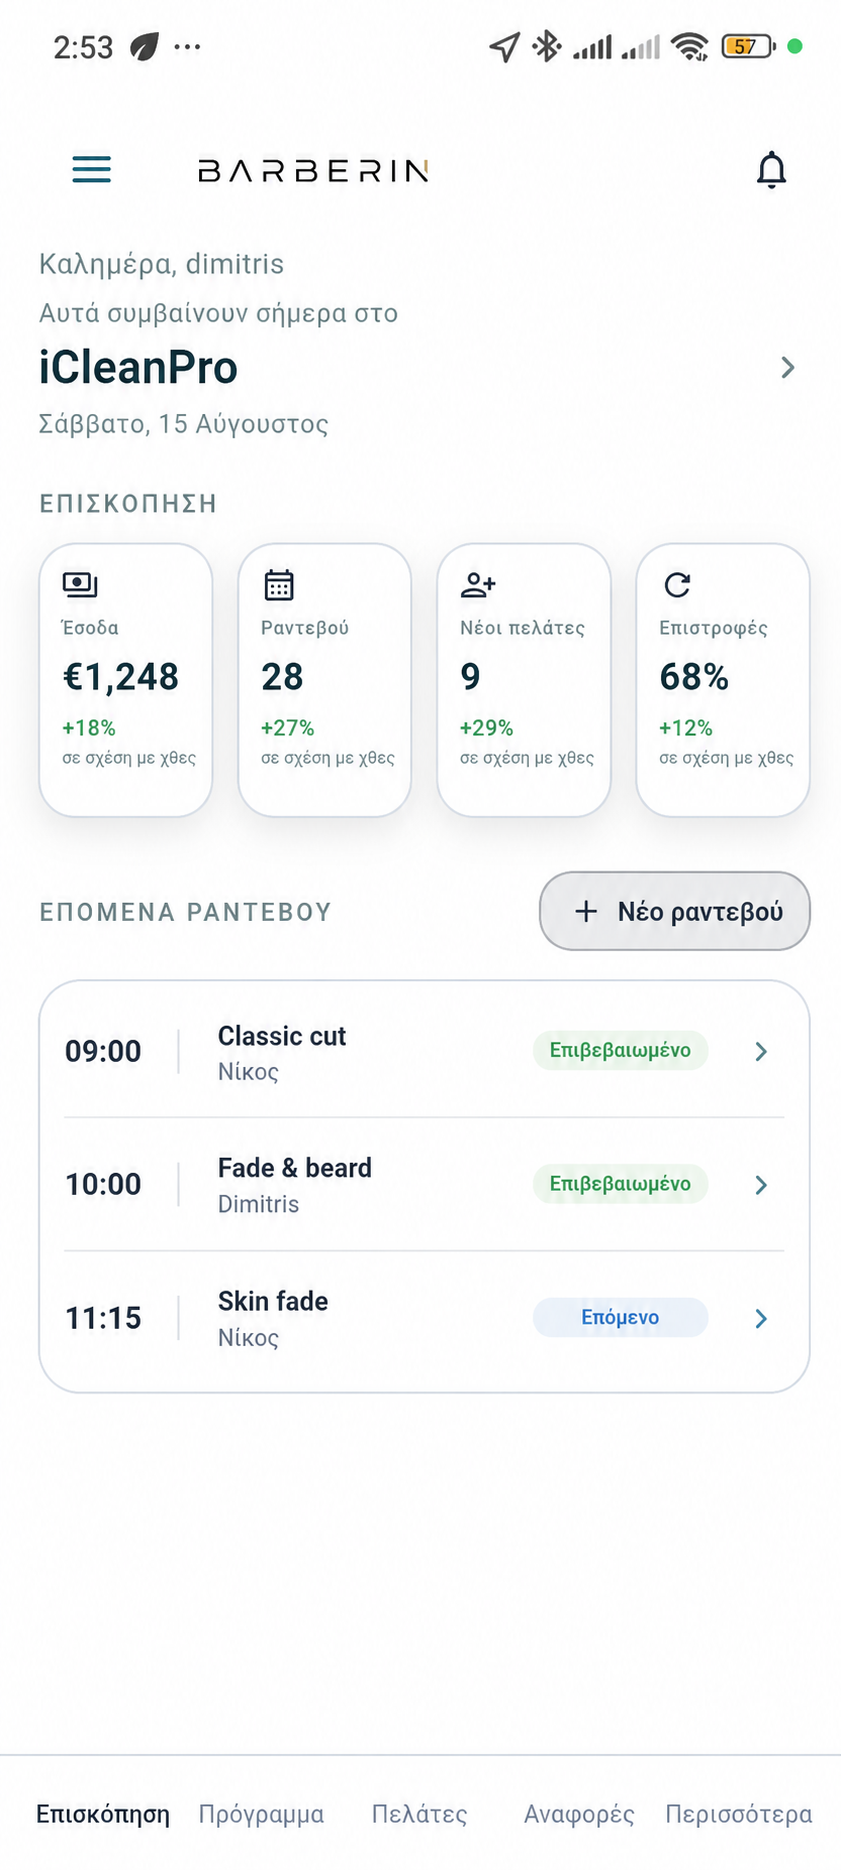
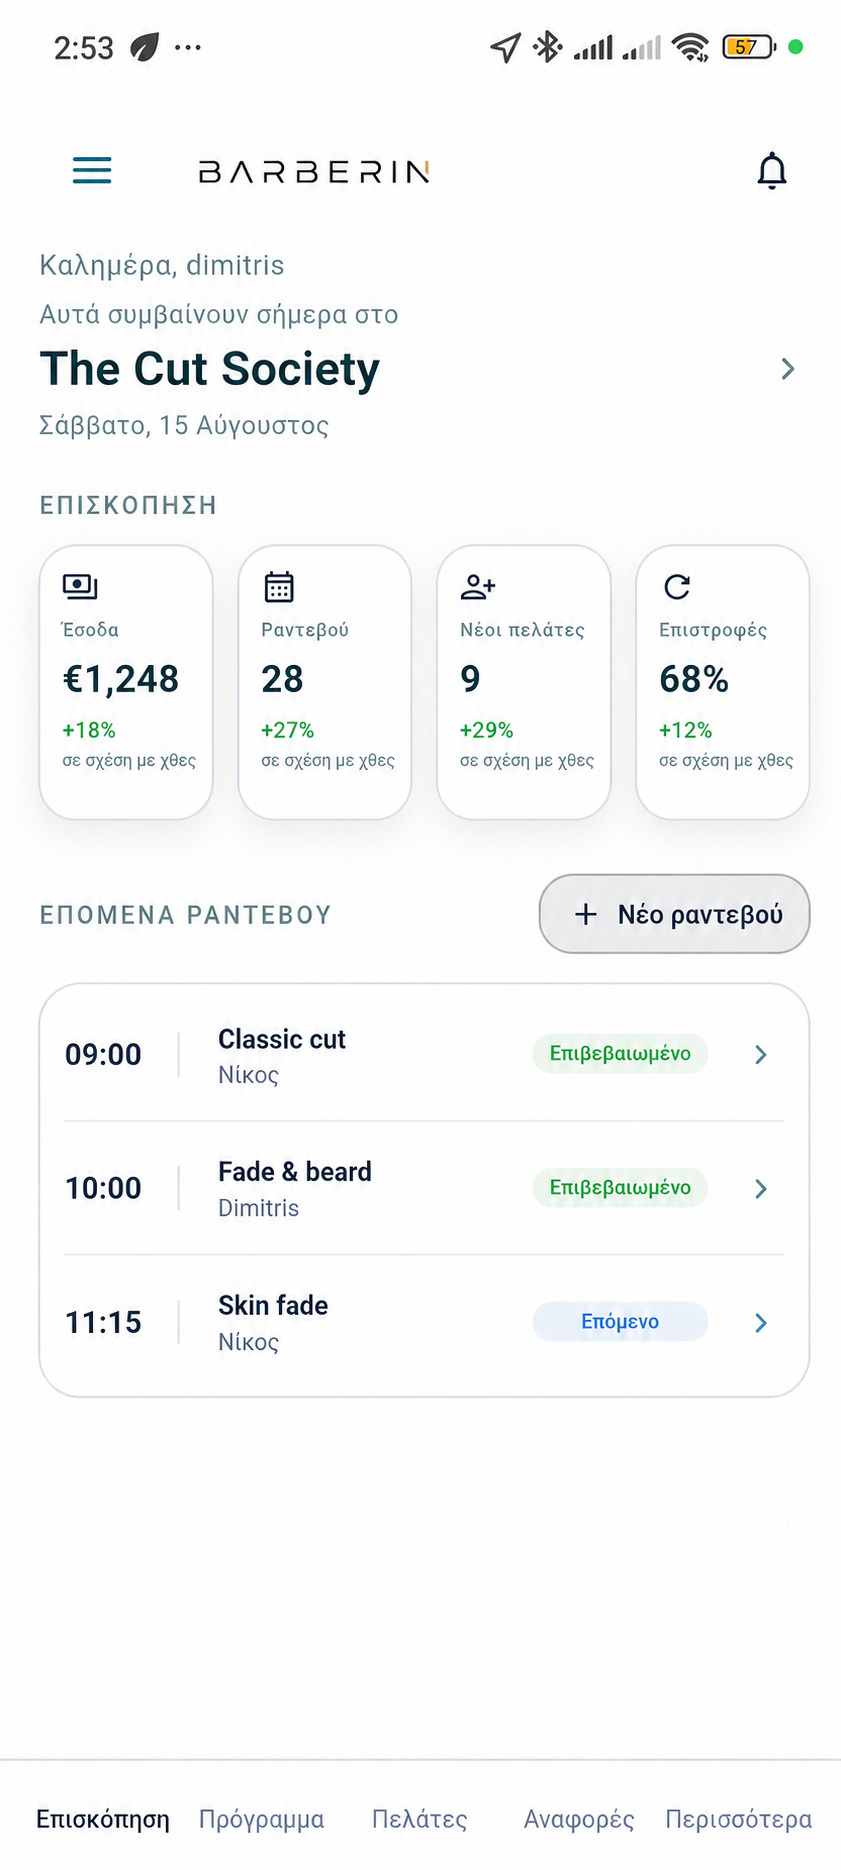
Complete Barberin website app demos

diff --git a/styles.css b/styles.css
@@ -143,7 +143,7 @@ h1 { max-width:650px; margin:0; font-size:clamp(42px,4.3vw,63px); letter-spacing
 .gallery-group-heading h3 { max-width:680px; margin:12px 0 0; font-size:28px; letter-spacing:-1px; }
 .gallery-group-heading p { max-width:560px; margin:9px 0 0; color:var(--muted); font-size:13px; }
 .gallery-grid { display:grid; grid-template-columns:repeat(4,1fr); gap:18px; align-items:start; }
-.customer-gallery-grid { grid-template-columns:repeat(2,minmax(0,245px)); max-width:520px; }
+.customer-gallery-grid { grid-template-columns:repeat(3,minmax(0,1fr)); max-width:800px; }
 .gallery-grid figure { margin:0; }
 .gallery-grid img { display:block; width:100%; border:1px solid #cdd6e0; border-radius:21px; box-shadow:0 16px 30px rgba(31,41,55,.1); }
 .gallery-grid figcaption { margin-top:12px; color:var(--muted); font-size:10px; line-height:1.4; }

diff --git a/index.html b/index.html
@@ -190,6 +190,7 @@
         <div class="gallery-grid customer-gallery-grid">
           <figure><img src="./barberin-customer-home.png" alt="Customer App του shop με επόμενο ραντεβού και Book a Service"><figcaption>Home και κράτηση</figcaption></figure>
           <figure><img src="./barberin-customer-visits.png" alt="Customer App του shop με γεμάτη λίστα επισκέψεων"><figcaption>Οι επισκέψεις μου</figcaption></figure>
+          <figure><img src="./customer-booking-live.png" alt="Customer App του shop με τη ροή νέου ραντεβού"><figcaption>Νέο ραντεβού</figcaption></figure>
         </div>
       </div>
       <div class="gallery-group">
